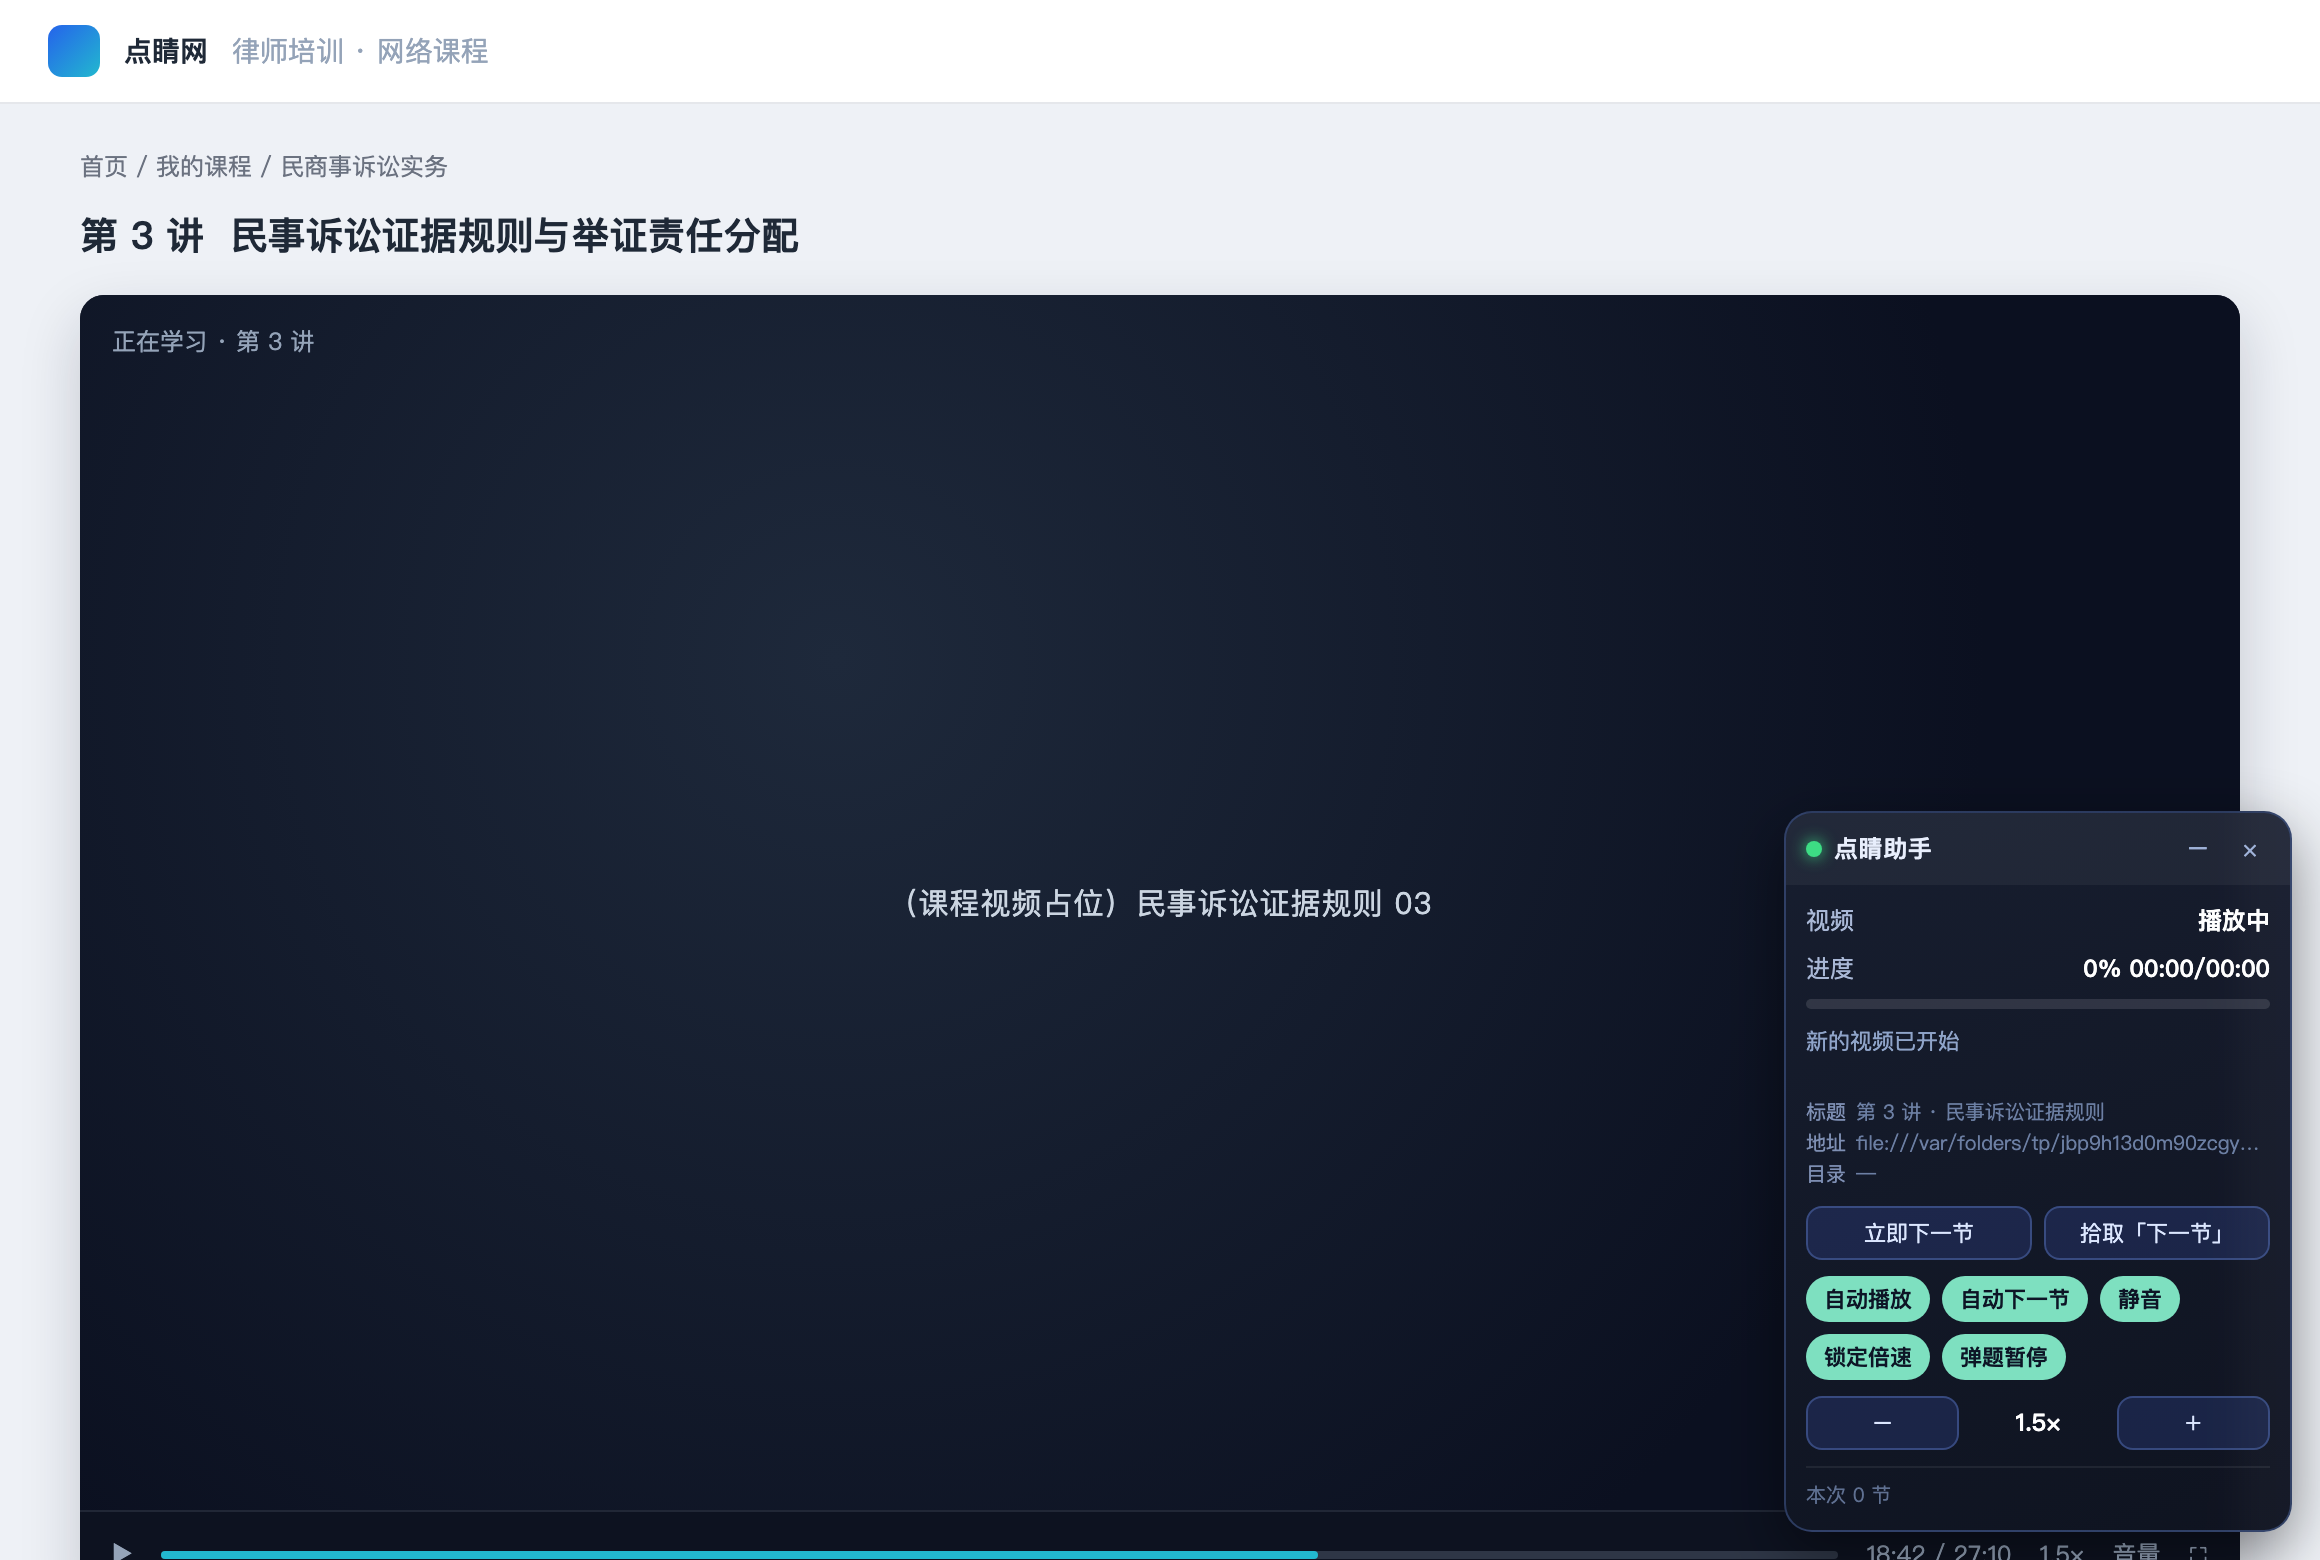
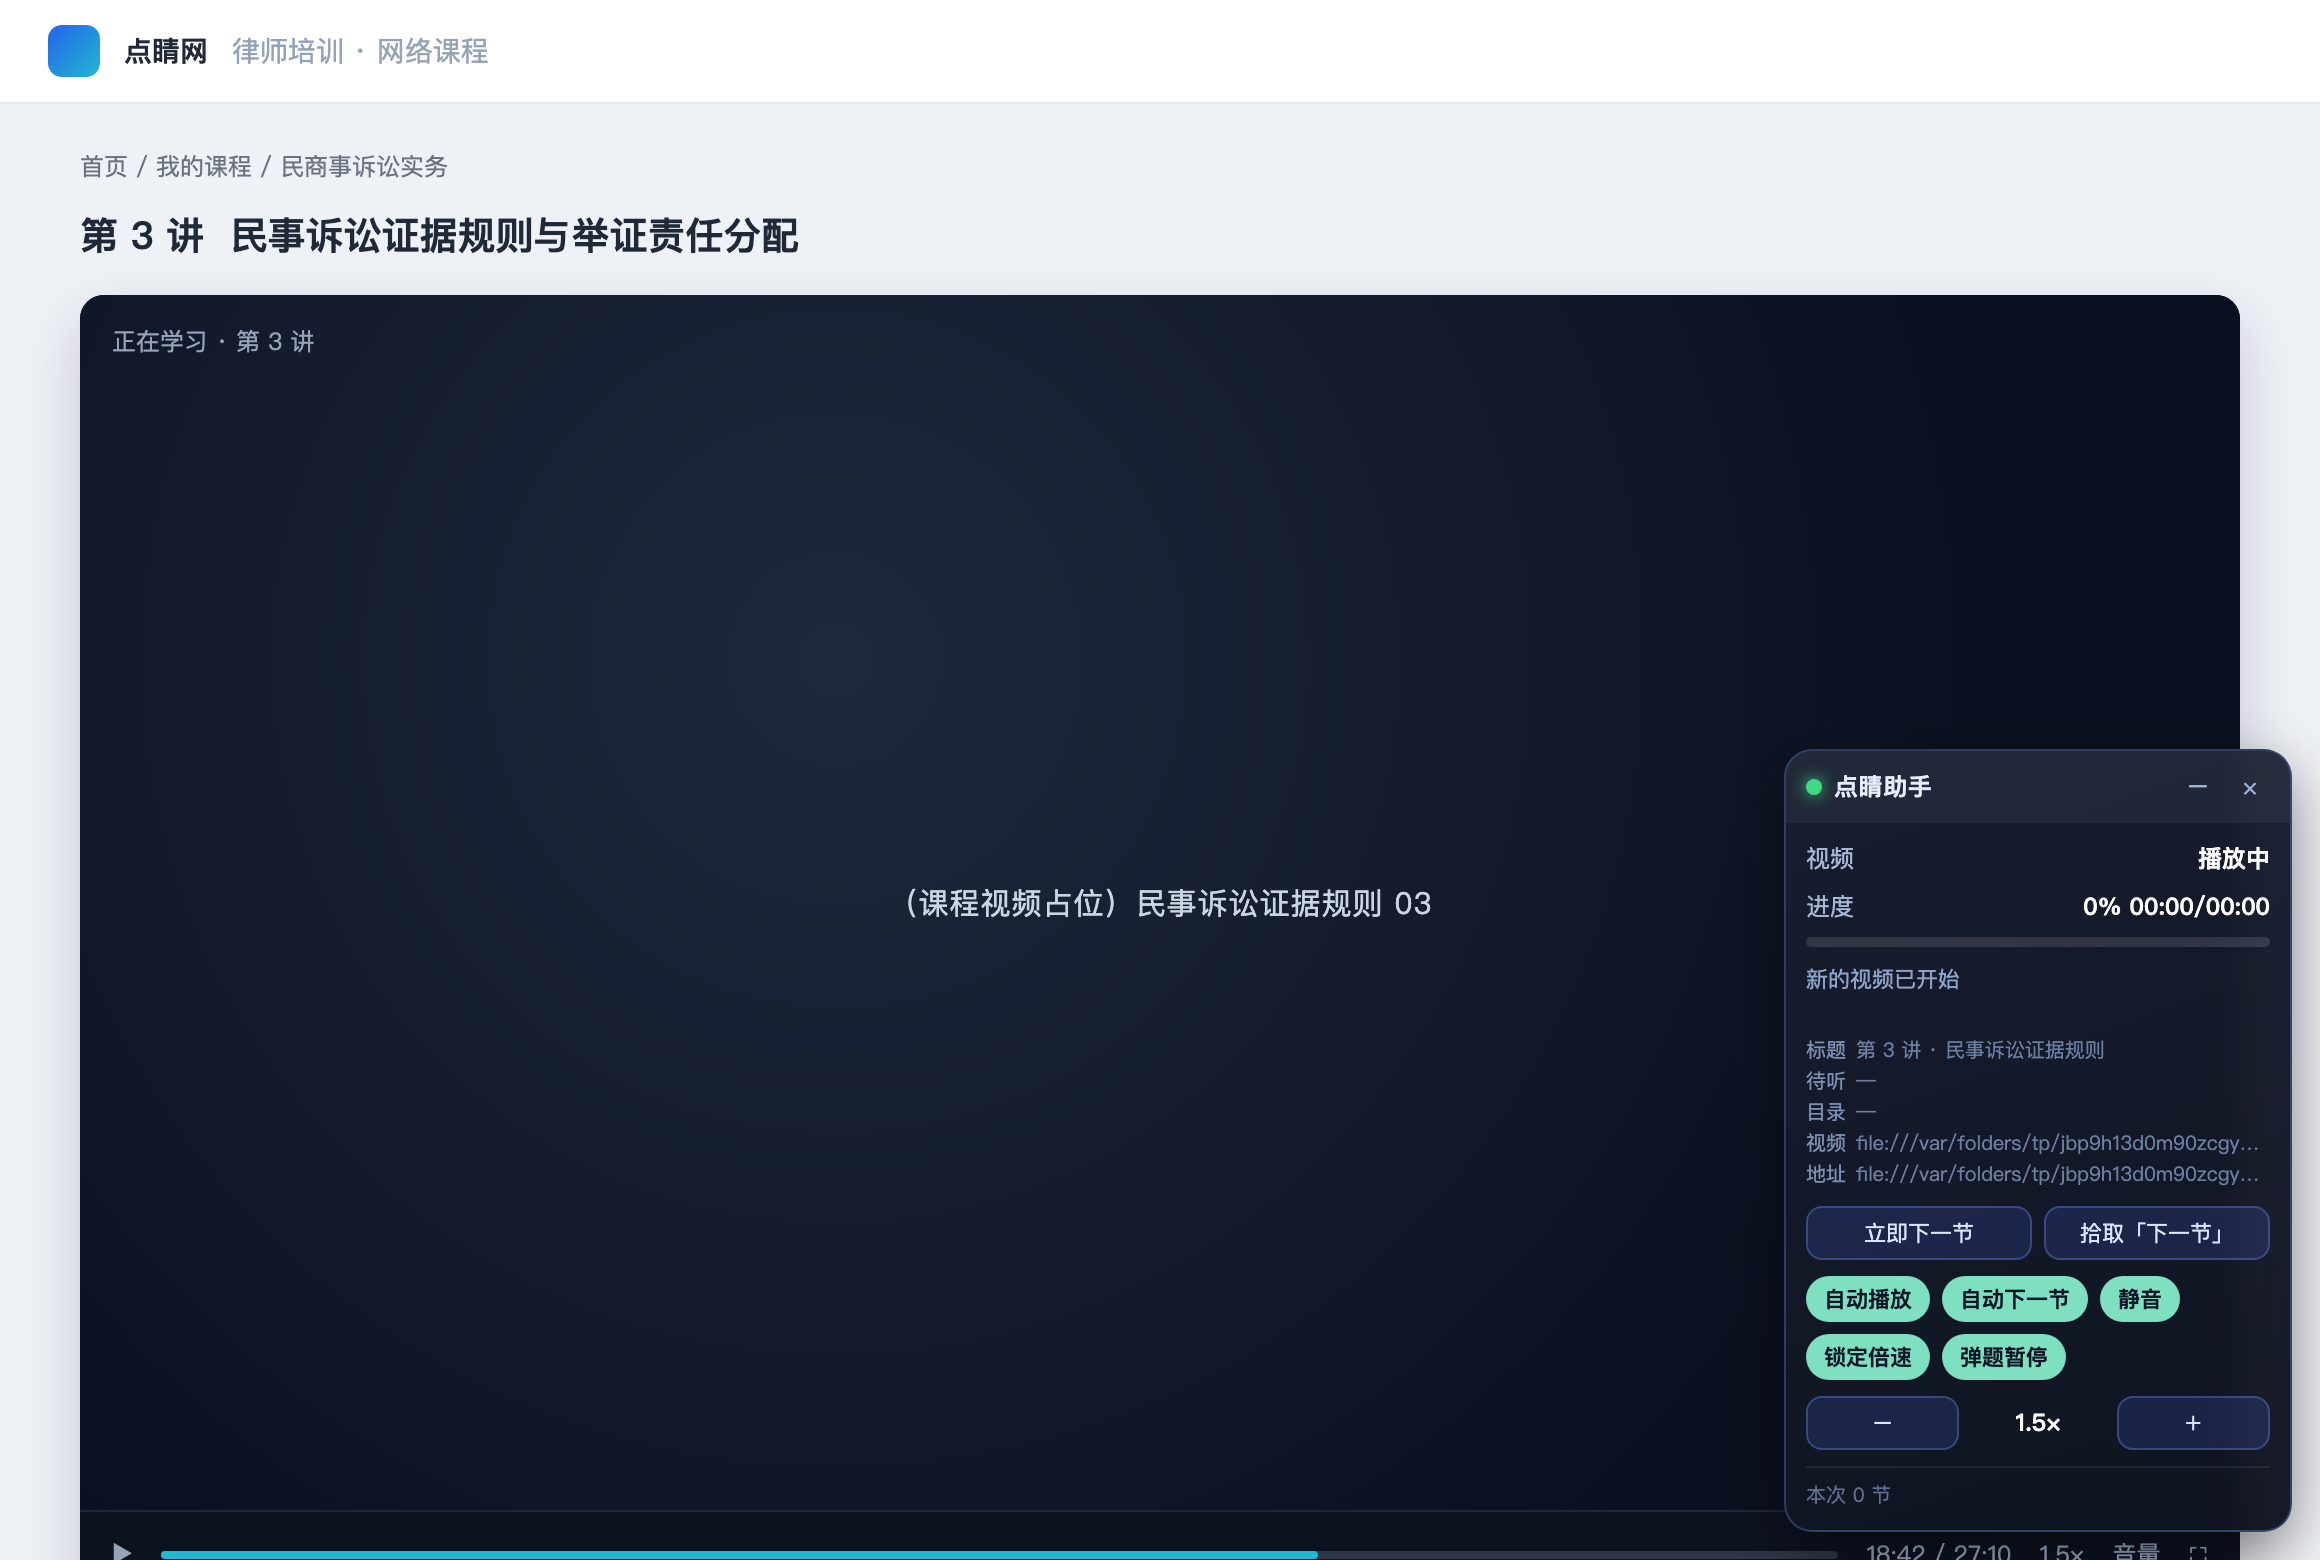
feat: 面板与弹窗展示待听内容与视频源（v1.2.4）
- snapshot 新增 nextText（下一节条目文本）与 videoSrc（currentSrc）
- 面板 meta 扩为 标题/待听/目录/视频/地址 五行
- 弹窗状态卡同步展示待听与视频地址
- 测试补 snapshot.nextText / videoSrc 断言（共 47 项）

Changed region(s): [[0.7759, 0.4615, 0.9931, 0.7692]]

diff --git a/src/content.js b/src/content.js
@@ -9,7 +9,7 @@
   if (window.__DJZK_LOADED__) return;
   window.__DJZK_LOADED__ = true;
 
-  const VERSION = '1.2.3';
+  const VERSION = '1.2.4';
   const HOST_OK = (/(^|\.)zfwx\.com$/i.test(location.hostname) ||
     /(^|\.)dianjingyun\.com$/i.test(location.hostname)) ||
     location.hostname === 'localhost' || window.__DJZK_FORCE__ === true;
@@ -287,11 +287,11 @@
       const label = labelOfRow(next);
       if (isVisible(next)) {
         const row = next.querySelector('p.name') || next.querySelector('a') || next;
-        return { el: row, label: label || labelOfRow(row), cur: curLabel };
+        return { el: row, label: label || labelOfRow(row), cur: curLabel, text: textShort(row) };
       }
       const item = next.closest('.courseItem');
       const head = headOf(item);
-      if (head) return { el: head, label: label, cur: curLabel, then: () => firstRowOf(item) };
+      if (head) return { el: head, label: label, cur: curLabel, then: () => firstRowOf(item), text: textShort(head) };
     }
 
     /* 本章最后一条：点下一个 courseItem 的标题 */
@@ -303,8 +303,8 @@
       const label = labelOfRow(nx.querySelector('h3.courseName') || nx);
       if (head) {
         const row = firstRowOf(nx);
-        if (row && isVisible(row)) return { el: row, label: label, cur: curLabel };
-        return { el: head, label: label, cur: curLabel, then: () => firstRowOf(nx) };
+        if (row && isVisible(row)) return { el: row, label: label, cur: curLabel, text: textShort(row) };
+        return { el: head, label: label, cur: curLabel, then: () => firstRowOf(nx), text: textShort(head) };
       }
     }
 
@@ -327,6 +327,10 @@
   }
 
   function cmpLabel(a, b) { return (a[0] - b[0]) || (a[1] - b[1]); }
+
+  function textShort(el, n) {
+    return norm((el && (el.innerText || el.textContent)) || '').slice(0, n || 120);
+  }
 
   function lessonLabelText(el) {
     const m = LESSON_LABEL.exec(String((el && el.textContent) || ''));
@@ -400,7 +404,7 @@
     const idx = items.findIndex((it) => cmpLabel(it.label, cur) === 0);
     if (idx < 0 || idx === items.length - 1) return null;
     const nxt = items[idx + 1];
-    return { el: nxt.el, label: nxt.label.join('.'), cur: items[idx].label.join('.') };
+    return { el: nxt.el, label: nxt.label.join('.'), cur: items[idx].label.join('.'), text: textShort(nxt.el) };
   }
 
   /* 目录是懒加载时，滚到底触发加载 */
@@ -428,12 +432,12 @@
         const zf = zfwxCatalogNext();
         const rows = [...box.querySelectorAll('.rightCatalogList li')];
         const cur = rows.find((li) => /(^|\s)on(\s|$)/.test(String(li.className || '')) || li.getAttribute('data-status') === 'bofang');
-        return { cur: cur ? lessonLabelText(cur) : '', next: (zf && zf.label) || '' };
+        return { cur: cur ? lessonLabelText(cur) : '', next: (zf && zf.label) || '', nextText: (zf && zf.text) || '' };
       }
       const g = catalogNext();
-      return { cur: (pageLessonLabel() || []).join('.'), next: (g && g.label) || '' };
+      return { cur: (pageLessonLabel() || []).join('.'), next: (g && g.label) || '', nextText: (g && g.text) || '' };
     } catch (e) {
-      return { cur: '', next: '' };
+      return { cur: '', next: '', nextText: '' };
     }
   }
 
@@ -666,8 +670,10 @@
       href: location.href,
       host: location.hostname,
       title: String(document.title || '').slice(0, 140),
+      videoSrc: v ? String(v.currentSrc || v.src || '').slice(0, 300) : '',
       catalogCur: peek.cur,
       catalogNext: peek.next,
+      nextText: peek.nextText,
       hasVideo: !!v,
       playing: !!(v && !v.paused && !v.ended),
       ended: !!(v && v.ended),
@@ -788,8 +794,10 @@
           <div class="msg" data-f="msg">初始化…</div>
           <div class="meta">
             <div class="mrow"><i>标题</i><span data-f="title">—</span></div>
-            <div class="mrow"><i>地址</i><span data-f="href">—</span></div>
+            <div class="mrow"><i>待听</i><span data-f="nextText">—</span></div>
             <div class="mrow"><i>目录</i><span data-f="catalog">—</span></div>
+            <div class="mrow"><i>视频</i><span data-f="videoSrc">—</span></div>
+            <div class="mrow"><i>地址</i><span data-f="href">—</span></div>
           </div>
           <div class="rowbtns">
             <button class="b" data-act="next">立即下一节</button>
@@ -845,6 +853,12 @@
         const hEl = $('[data-f="href"]');
         hEl.textContent = st.href || '—';
         hEl.title = st.href || '';
+        const nEl = $('[data-f="nextText"]');
+        nEl.textContent = st.nextText || '—';
+        nEl.title = st.nextText || '';
+        const vEl = $('[data-f="videoSrc"]');
+        vEl.textContent = st.videoSrc || '—';
+        vEl.title = st.videoSrc || '';
         const cEl = $('[data-f="catalog"]');
         const catText = [st.catalogCur && ('当前 ' + st.catalogCur), st.catalogNext && ('下一节 ' + st.catalogNext)]
           .filter(Boolean).join(' → ');

diff --git a/src/popup.js b/src/popup.js
@@ -151,7 +151,7 @@ function renderState(rec) {
     $('#time').textContent = '00:00';
     $('#rateNow').textContent = fmtRate(settings.rate);
     $('#lessons').textContent = '0';
-    ['pgTitle', 'pgHref', 'pgCatalog'].forEach((id) => { const el = $('#' + id); el.textContent = '—'; el.title = ''; });
+    ['pgTitle', 'pgNext', 'pgCatalog', 'pgVideo', 'pgHref'].forEach((id) => { const el = $('#' + id); el.textContent = '—'; el.title = ''; });
     $('#hint').textContent = tab && /^chrome-extension:/.test(tab.url)
       ? '这是设置页，打开点睛网听课页面即可看到实时状态。'
       : '当前页面没有运行脚本（可能不在点睛网，或需要刷新页面）。';
@@ -173,8 +173,12 @@ function renderState(rec) {
 
   $('#pgTitle').textContent = st.title || '—';
   $('#pgTitle').title = st.title || '';
+  $('#pgNext').textContent = st.nextText || '—';
+  $('#pgNext').title = st.nextText || '';
   $('#pgHref').textContent = st.href || '—';
   $('#pgHref').title = st.href || '';
+  $('#pgVideo').textContent = st.videoSrc || '—';
+  $('#pgVideo').title = st.videoSrc || '';
   const cat = [st.catalogCur && ('当前 ' + st.catalogCur), st.catalogNext && ('下一节 ' + st.catalogNext)]
     .filter(Boolean).join(' → ');
   $('#pgCatalog').textContent = cat || '—';

diff --git a/src/popup.html b/src/popup.html
@@ -35,8 +35,10 @@
     <div class="hint" id="hint">正在读取页面状态…</div>
     <div class="pagemeta">
       <div><i>标题</i><span id="pgTitle">—</span></div>
-      <div><i>地址</i><span id="pgHref">—</span></div>
+      <div><i>待听</i><span id="pgNext">—</span></div>
       <div><i>目录</i><span id="pgCatalog">—</span></div>
+      <div><i>视频</i><span id="pgVideo">—</span></div>
+      <div><i>地址</i><span id="pgHref">—</span></div>
     </div>
   </section>
 
@@ -94,7 +96,7 @@
 
   <footer>
     <span id="footNote">仅辅助播放，请遵守点睛网学习规则</span>
-    <span id="ver">v1.2.3</span>
+    <span id="ver">v1.2.4</span>
   </footer>
 
   <div class="toast" id="toast" hidden></div>

diff --git a/tools/preview.py b/tools/preview.py
@@ -36,6 +36,8 @@ window.chrome = {
       hasVideo: true, playing: true, rate: 1.5, cur: 1873, dur: 2710, pct: 69,
       title: '1.1｜刑事涉案财产处置的困境及实务对策 - 点睛网',
       catalogCur: '1.1', catalogNext: '1.2',
+      nextText: '1.2｜新公司法的资本充实责任圆桌谈',
+      videoSrc: 'https://vod.dianjingyun.com/course/2024/1103/lesson-1.1-1080p.m3u8',
       nextIn: 0, quiz: false, lessons: 2, enabled: true, host: 'www.zfwx.com',
       msg: '锁定 1.5× · 播完自动下一节', href: 'https://www.zfwx.com/wxqt/package/course.do'
     }, videoFrameId: 0 } })

diff --git a/README.md b/README.md
@@ -41,8 +41,10 @@
 悬浮面板和弹窗状态卡里都会显示插件「看到」的内容，方便和页面比对：
 
 - **标题**：`document.title`；
-- **地址**：当前页面 URL；
-- **目录**：`当前 1.1 → 下一节 1.2`（识别不出时显示 —）。
+- **待听**：下一节要听的条目文本，例如 `1.2｜新公司法的资本充实责任圆桌谈`（折叠章节时是章节标题）；
+- **目录**：`当前 1.1 → 下一节 1.2`（识别不出时显示 —）；
+- **视频**：当前播放器的视频地址（`<video>` 的 `currentSrc`，HLS 时是 `.m3u8`）；
+- **地址**：当前页面 URL。
 
 ## 找不到「下一节」按钮？
 
@@ -133,7 +135,7 @@ npm run preview
 npm run icons
 ```
 
-测试覆盖：面板注入、自动播放/静音/倍速、锁定倍速回拉、静音恢复、「下一节」识别与自动点击、跳过节数上报、随机等待区间与旧设置迁移、弹题暂停、设置联动、拾取优先级、目录模式（含高亮小节反推章节）、后台状态汇总/命令路由/统计与清理（共 38 项断言）。
+测试覆盖：面板注入、自动播放/静音/倍速、锁定倍速回拉、静音恢复、「下一节」识别与自动点击、跳过节数上报、随机等待区间与旧设置迁移、弹题暂停、设置联动、拾取优先级、目录模式（含高亮小节反推章节、折叠章节两步点击）、识别结果展示（标题/待听/目录/视频源）、后台状态汇总/命令路由/统计与清理（共 47 项断言）。
 
 目录结构：
 
